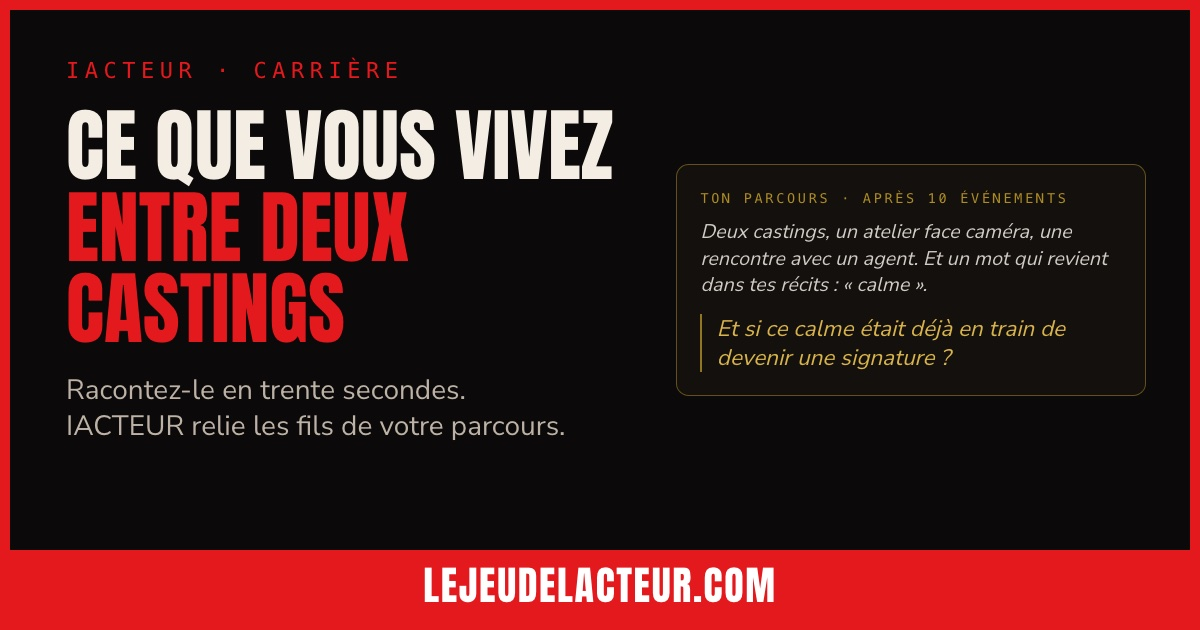
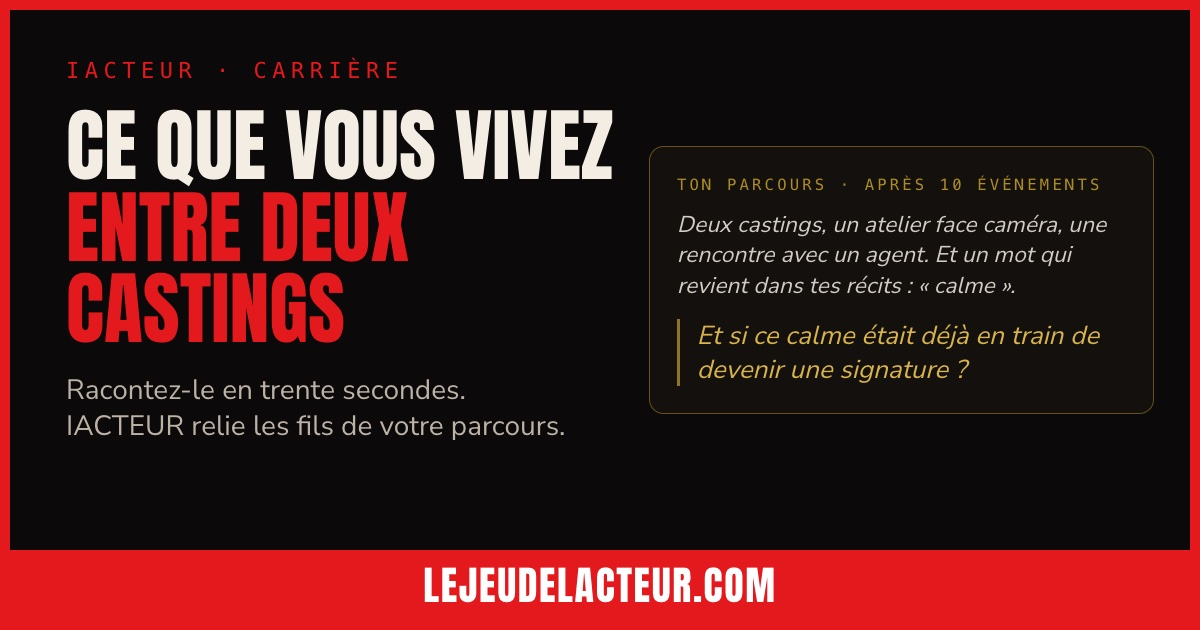
Visuels CARRIERE : carte plus grande (couverture, Facebook), plus haute (carre)

Changed region(s): [[0.555, 0.2714, 0.925, 0.4825], [0.555, 0.5127, 0.925, 0.6032]]

diff --git a/src/app/visuels/[format]/page.tsx b/src/app/visuels/[format]/page.tsx
@@ -261,8 +261,8 @@ export default async function Visuel({ params }: PageProps<"/visuels/[format]">)
               </>}</p>
           {fb && <p style={{ fontSize: 28, fontWeight: 700, margin: "10px 0 0" }}>{OFFERT_CARRIERE}</p>}
         </div>
-        <div style={{ position: "absolute", right: 44, top: 0, bottom: 70, width: 470, display: "flex", alignItems: "center" }}>
-          <ExempleCarriere echelle={0.9} mode="fil" />
+        <div style={{ position: "absolute", right: 36, top: 0, bottom: 70, width: 505, display: "flex", alignItems: "center" }}>
+          <ExempleCarriere echelle={1.04} mode="fil" />
         </div>
         {bandeBas(70, 40, fb ? "iacteur.com" : "lejeudelacteur.com")}
       </div>
@@ -298,7 +298,7 @@ export default async function Visuel({ params }: PageProps<"/visuels/[format]">)
           <p className="font-affiche uppercase" style={{ fontSize: 92, lineHeight: 1.02, margin: "24px 0 0" }}>{TITRE_CARRIERE_TU}</p>
           <p style={{ fontSize: 32, lineHeight: 1.3, margin: "18px 0 0", color: "#bdb2a6" }}>{TEXTE_CARRIERE_TU}</p>
         </div>
-        <div style={{ position: "absolute", left: 60, right: 60, bottom: 135 }}>
+        <div style={{ position: "absolute", left: 60, right: 60, bottom: 185 }}>
           <ExempleCarriere echelle={1.3} mode="fil" />
           <p style={{ fontSize: 32, fontWeight: 700, margin: "22px 0 0" }}>{OFFERT_CARRIERE}</p>
         </div>
